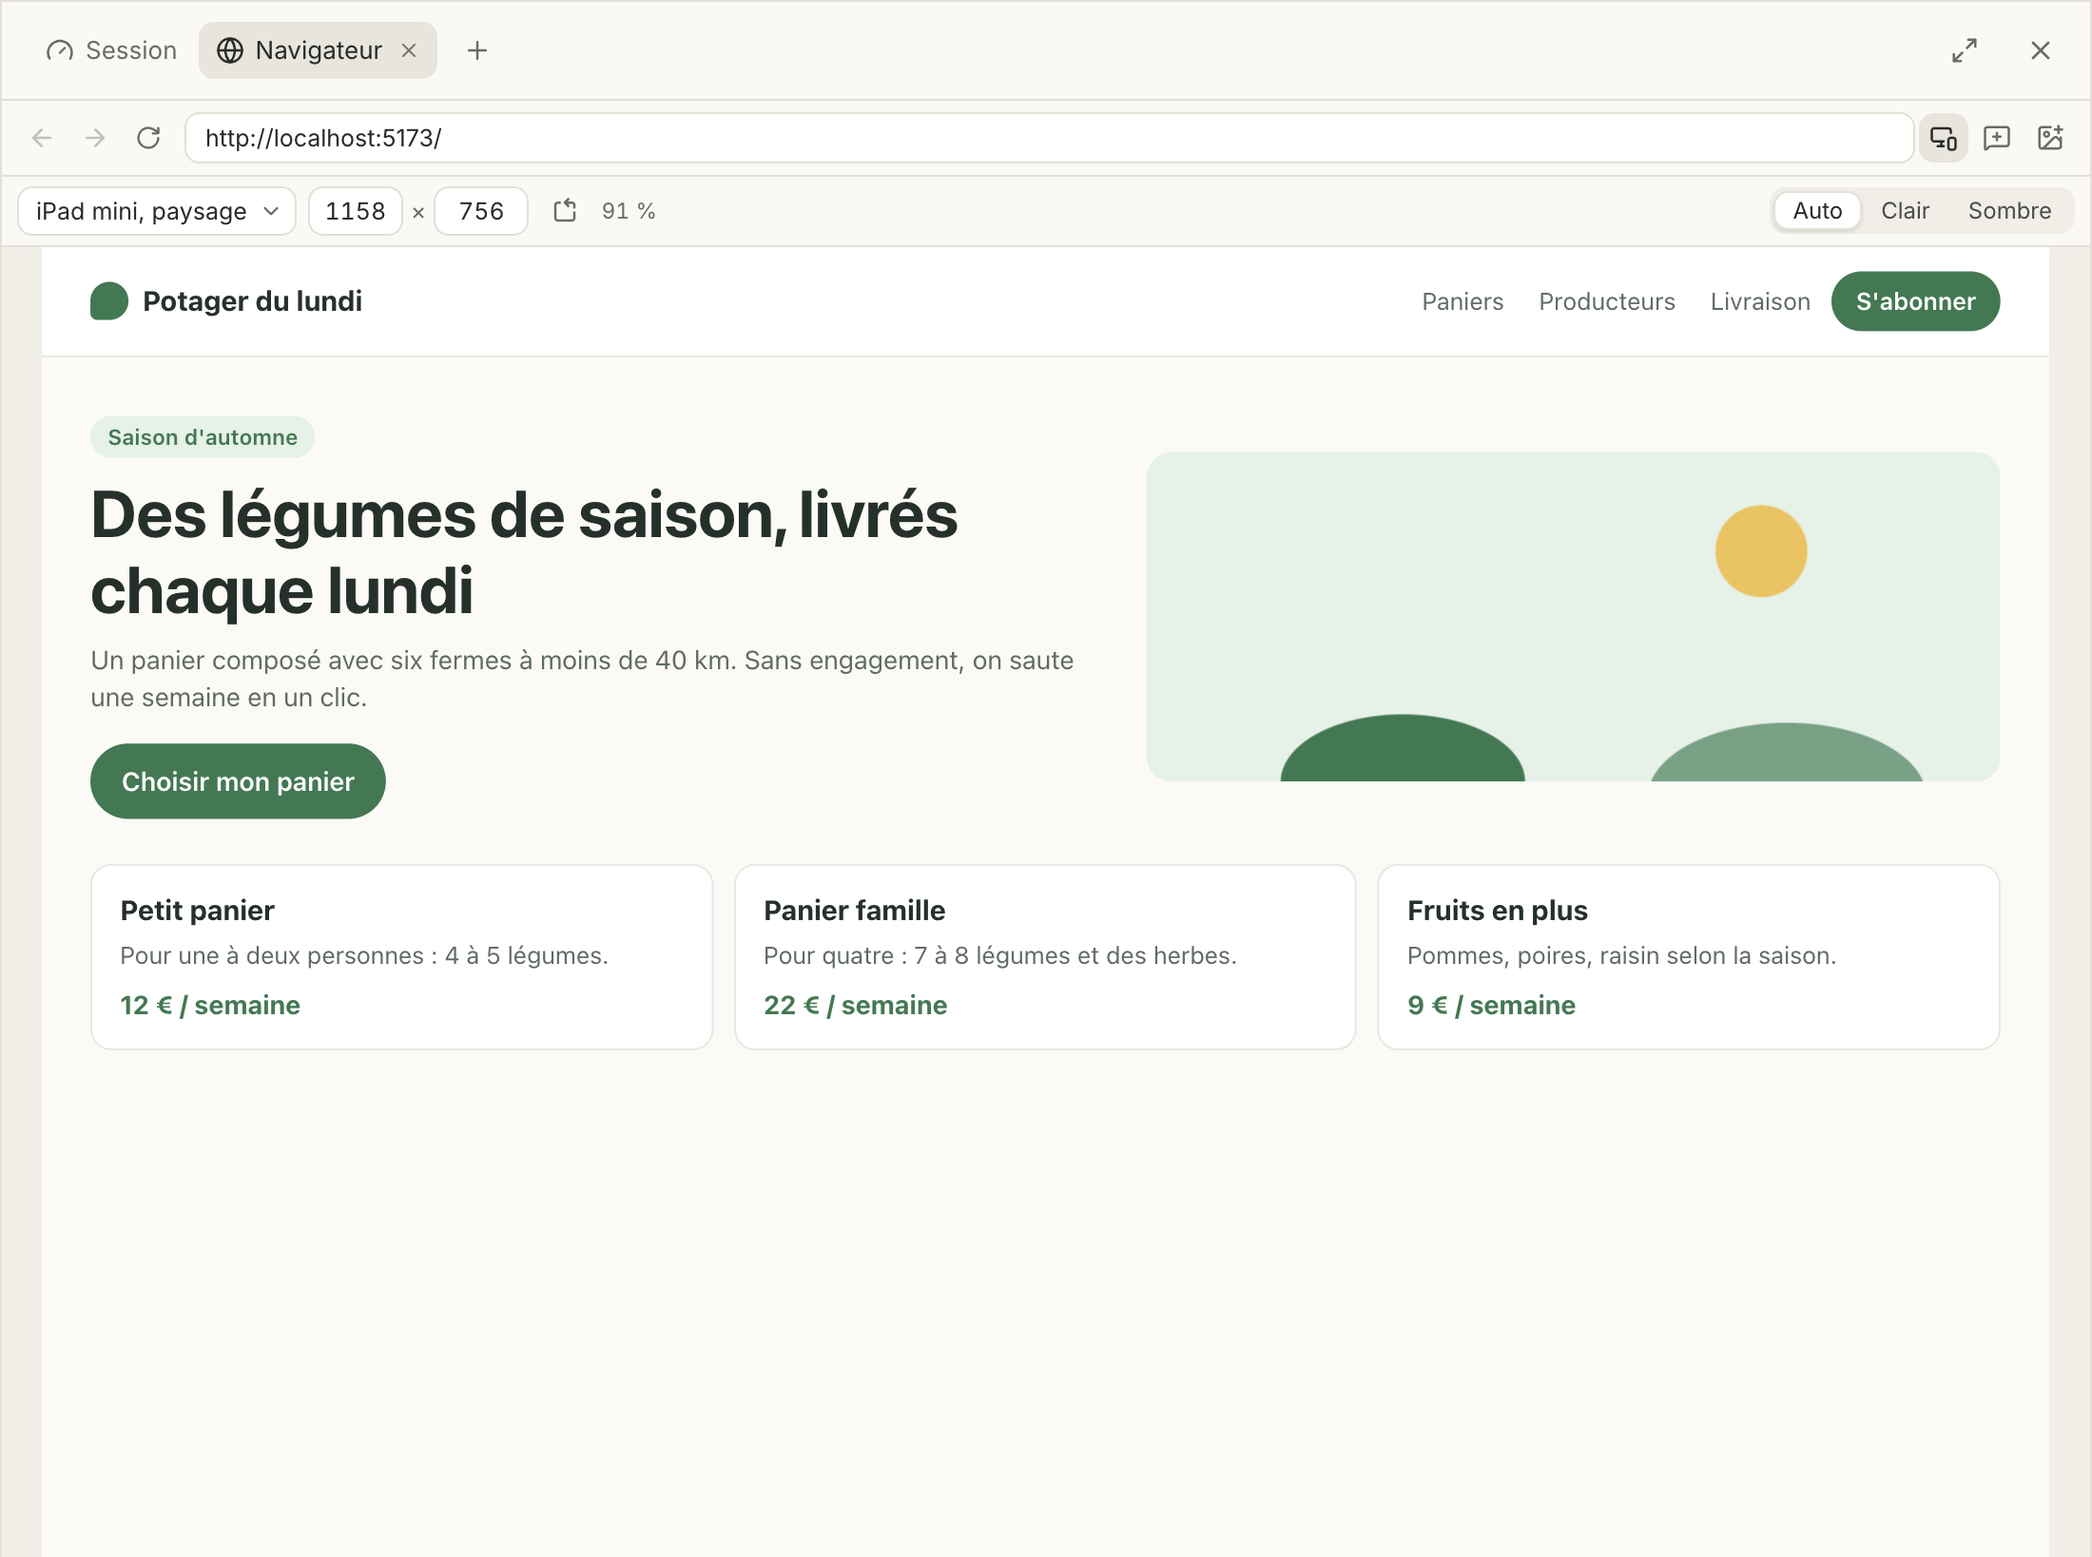
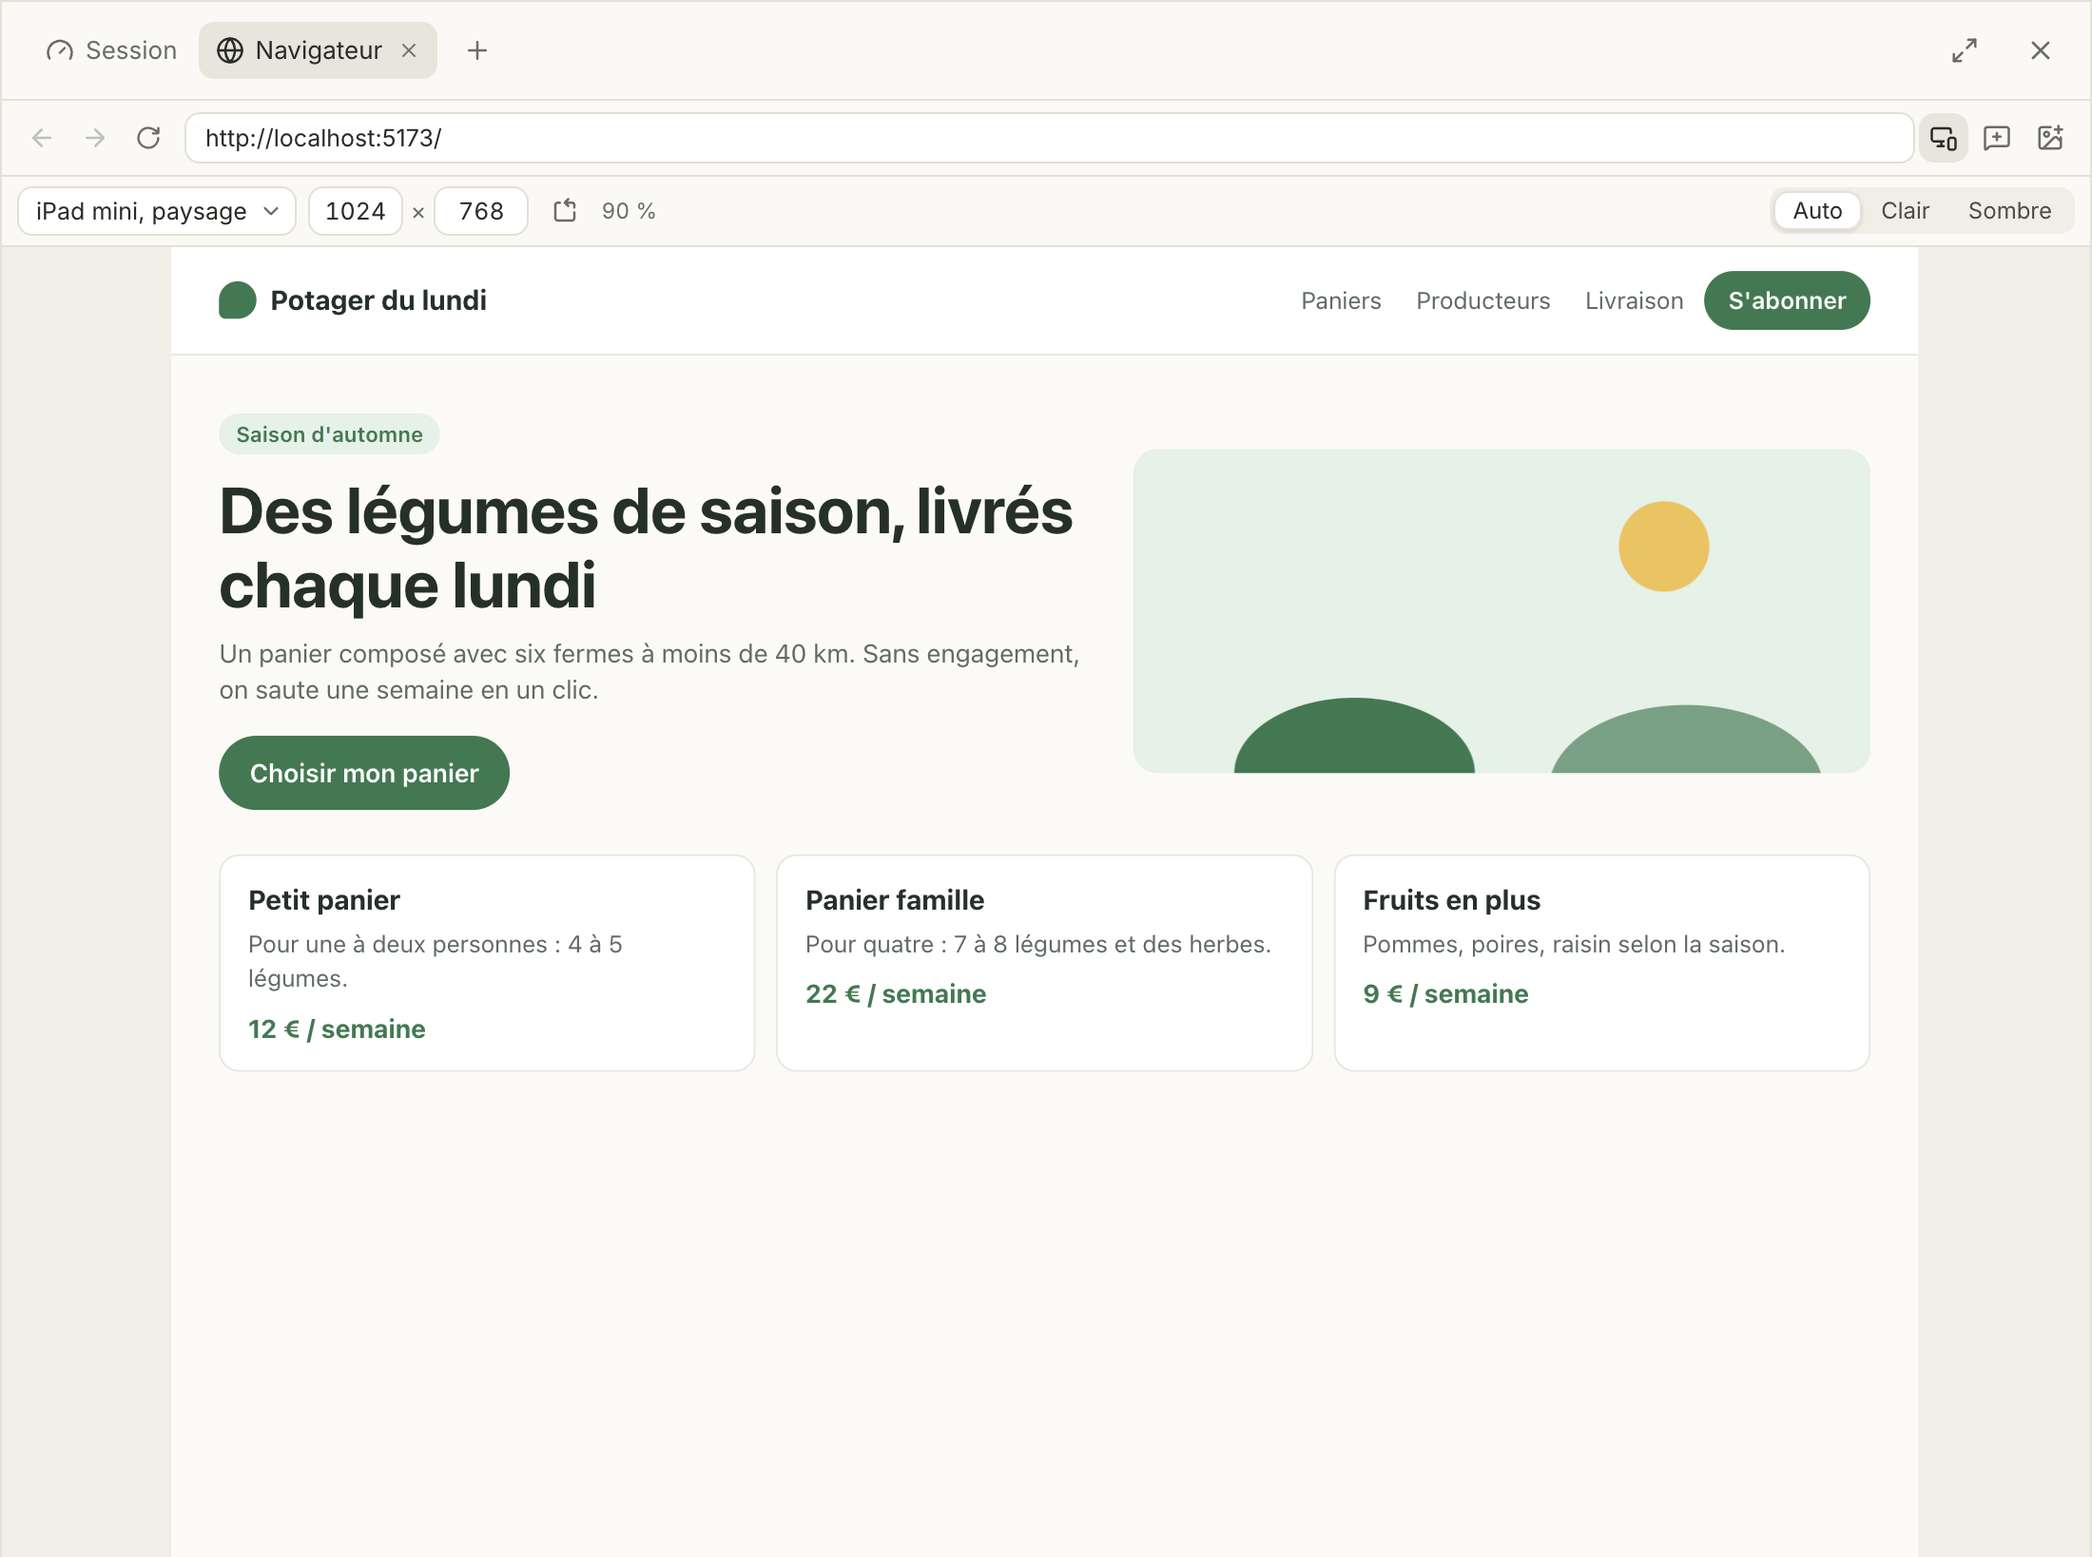
docs: feature 295, device sizes from the same-named Chrome DevTools entry
One source for every device: iPad mini 768x1024 (iPad Mini entry), iPad Pro
kept on the only iPad Pro entry (iPad Pro 13, 1032x1376), Desktop stays
conventional. Maintenance rule, ADR-0078 and mockup captures updated.

diff --git a/docs/maquettes/295-navigateur-responsive.html b/docs/maquettes/295-navigateur-responsive.html
@@ -746,15 +746,15 @@
         `<svg width="${s}" height="${s}" viewBox="0 0 24 24" fill="none" stroke="currentColor" stroke-width="2" stroke-linecap="round" stroke-linejoin="round" aria-hidden="true">${P[n]}</svg>`
 
       /*
-       * Liste arbitrée par Jérôme le 2026-11-28 (fiche 295, tableau des sources) : noms
-       * d'appareils, taille toujours à côté ; « Portable » et « Bureau » traduits.
+       * Liste arbitrée par Jérôme le 2026-11-28 : noms d'appareils, taille de l'entrée de même nom
+       * de la liste d'appareils de Chrome DevTools (fiche 295) ; « Portable » et « Bureau » traduits.
        */
       const DEVICES = [
         ['iPhone SE', 375, 667],
         ['iPhone 14', 390, 844],
         ['iPhone 14 Pro Max', 430, 932],
         ['Pixel 7', 412, 915],
-        ['iPad mini', 756, 1158],
+        ['iPad mini', 768, 1024],
         ['iPad Pro', 1032, 1376],
         ['Portable', 1280, 800],
         ['Bureau', 1920, 1080]
@@ -1019,13 +1019,13 @@
         P_(
           'p11',
           '11 — Panneau agrandi',
-          'Panneau agrandi (⤢), 1 100 px : même barre, plus de place. « iPad mini, paysage » (1158 × 756) est presque à sa taille ; à 100 %, l’échelle disparaît.',
+          'Panneau agrandi (⤢), 1 100 px : même barre, plus de place. « iPad mini, paysage » (1024 × 768) est presque à sa taille ; à 100 %, l’échelle disparaît.',
           V('', {
             w: 1100,
             bar: true,
             label: 'iPad mini, paysage',
-            size: [1158, 756],
-            fields: { w: 1158, h: 756 },
+            size: [1024, 768],
+            fields: { w: 1024, h: 768 },
             pageAuto: true
           })
         )

diff --git a/docs/features/295-navigateur-reglage-responsive.md b/docs/features/295-navigateur-reglage-responsive.md
@@ -92,7 +92,7 @@ Les numéros renvoient aux planches de la maquette.
 | 8 | Thème forcé | « Sombre » choisi : `prefers-color-scheme: dark` pour la page. Seule une page qui suit ce réglage change (dit dans l'infobulle du choix) ; l'interface de Bobine ne change pas. |
 | 9 | Panneau étroit (≤ 420 px de barre) | Le thème passe en un bouton à icône qui ouvre un petit menu ; le nom de l'appareil se réduit à une icône avec chevron ; l'échelle passe dans l'infobulle des champs. À 280 px (minimum du panneau), tout tient sur une ligne, sans texte tronqué. |
 | 10 | L'agent redimensionne pendant un réglage | Voir « Qui a la main ». La barre montre l'essai de l'agent en lecture seule (menu « Essai de l'agent » grisé, champs grisés à ses valeurs) et une ligne « L'agent essaie … · Reprendre la main » ; la puce existante reste dans l'adresse. |
-| 11 | Panneau agrandi (⤢) | Même barre, plus de place : la page réduite reprend jusqu'à 100 % (l'échelle disparaît quand elle vaut 100 %). Ex. iPad mini, paysage, 1158 × 756 à 91 %. |
+| 11 | Panneau agrandi (⤢) | Même barre, plus de place : la page réduite reprend jusqu'à 100 % (l'échelle disparaît quand elle vaut 100 %). Ex. iPad mini, paysage, 1024 × 768. |
 | — | Plusieurs onglets du navigateur | Le réglage vaut pour **tous les onglets de la conversation**, y compris ceux ouverts ensuite (lien « nouvel onglet », `browser_tabs new`). Une seule barre, sous le bandeau d'onglets. |
 | — | Retour à « Adaptatif » | Choisir Adaptatif dans le menu, ou **refermer la barre** : la page reprend la largeur du panneau et le thème Auto. Rouvrir la barre rend le dernier réglage de la conversation. |
 
@@ -168,23 +168,23 @@ redémarrage (état caché qui survit, ce que la fiche 129 a déjà retiré pour
 Choix de Jérôme, contre la recommandation de libellés génériques : la liste de sa capture, avec la
 taille toujours affichée à côté du nom.
 
-**Règle des valeurs.** Largeur × hauteur en **pixels CSS**, orientation portrait, du **modèle le
-plus récent qui porte ce nom**. Source première : la liste d'appareils des outils de développement
-de Chrome (`front_end/models/emulation/EmulatedDevices.ts`, dépôt ChromeDevTools/devtools-frontend,
-branche `main`, lue le 2026-11-28), qui publie directement des tailles CSS. Quand elle est en
-retard sur le modèle vendu, la fiche technique du fabricant, divisée par le facteur d'échelle de
-l'appareil, et l'écart est dit.
+**Règle des valeurs (une seule source).** Chaque entrée reprend la taille, en **pixels CSS**, de
+**l'entrée de même nom** de la liste d'appareils des outils de développement de Chrome
+(`front_end/models/emulation/EmulatedDevices.ts`, dépôt ChromeDevTools/devtools-frontend, branche
+`main`, lue le 2026-11-28). C'est la liste que les développeurs connaissent et contre laquelle ils
+compareront. **Ces tailles sont celles de la liste de Chrome, pas celles du dernier modèle vendu
+sous ce nom** (ex. l'entrée « iPad Mini » est la taille des iPad mini de 2019 et avant).
 
-| Libellé (fr / en) | CSS (l × h) | `mobile` (tactile, `meta viewport`) | Densité (pour information, non appliquée) | Source et date |
+| Libellé (fr / en) | CSS (l × h) | `mobile` (tactile, `meta viewport`) | Densité (pour information, non appliquée) | Entrée DevTools exacte |
 |---|---|---|---|---|
-| iPhone SE | 375 × 667 | oui | 2 | DevTools « iPhone SE » (2026-11-28) ; iPhone SE 3e gén. (2022), dernier modèle de ce nom |
-| iPhone 14 | 390 × 844 | oui | 3 | DevTools « iPhone 14 » (2026-11-28) |
-| iPhone 14 Pro Max | 430 × 932 | oui | 3 | DevTools « iPhone 14 Pro Max » (2026-11-28) |
-| Pixel 7 | 412 × 915 | oui | 2,625 | DevTools « Pixel 7 » (2026-11-28) |
-| iPad mini | **756 × 1158** | oui | 2 | **Sources divergentes, tranché** : DevTools « iPad Mini » donne 768 × 1024, la taille des iPad mini 5e génération et antérieurs (2019 et avant). Apple, `apple.com/ipad-mini/specs/` (lu le 2026-11-28) : iPad mini (A20 Pro), 2316 × 1512 px à 326 ppi, soit 1158 × 756 à l'échelle 2 des iPad. On retient le modèle vendu. **Taille dérivée** : Apple ne publie pas la fenêtre CSS. À confirmer au lot 0 si une source publiée la donne. Sinon, la valeur reste dérivée et la fiche le dit. |
-| iPad Pro | 1032 × 1376 | oui | 2 | DevTools « iPad Pro 13 » (2026-11-28) : iPad Pro 13″ (2024 et après). L'iPad Pro 12,9″ (2018-2022), 1024 × 1366, n'est pas repris. |
-| Portable / Laptop | 1280 × 800 | non | 1 | DevTools « Laptop with MDPI screen » (2026-11-28) |
-| Bureau / Desktop | 1920 × 1080 | non | 1 | Pas d'entrée dans DevTools ; valeur conventionnelle (Full HD). Aucune statistique d'usage n'est citée. |
+| iPhone SE | 375 × 667 | oui | 2 | `iPhone SE` |
+| iPhone 14 | 390 × 844 | oui | 3 | `iPhone 14` |
+| iPhone 14 Pro Max | 430 × 932 | oui | 3 | `iPhone 14 Pro Max` |
+| Pixel 7 | 412 × 915 | oui | 2,625 | `Pixel 7` |
+| iPad mini | 768 × 1024 | oui | 2 | `iPad Mini` |
+| iPad Pro | 1032 × 1376 | oui | 2 | `iPad Pro 13` : la liste n'a **aucune** entrée nommée exactement « iPad Pro » (vérifié le 2026-11-28). C'est la seule entrée iPad Pro, donc la plus proche du nom. |
+| Portable / Laptop | 1280 × 800 | non | 1 | `Laptop with MDPI screen` (donnée en 800 × 1280, sens portrait de la liste ; un portable s'affiche en paysage). Aucune entrée nommée « Laptop » seule. |
+| Bureau / Desktop | 1920 × 1080 | non | 1 | Aucune entrée : valeur **conventionnelle** (Full HD). L'entrée la plus proche, `Laptop with HiDPI screen` (1440 × 900), est un portable : la prendre ferait de « Bureau » un second portable. |
 
 Plus « Adaptatif » (en tête) et « Taille libre » (sous la liste, seulement quand une taille libre
 est en vigueur). Le préréglage `tablet` de l'agent (768 × 1024) reste celui de l'agent : il n'est
@@ -197,14 +197,14 @@ libre » / « Custom size » sont des clés i18n.
 **Règle d'entretien** (risque accepté par Jérôme : liste à tenir à jour, promesse d'un appareil
 que Bobine n'émule pas vraiment) :
 
+- **on suit l'entrée de même nom de la liste d'appareils de Chrome DevTools, relue à chaque
+  version majeure** de Bobine ;
 - la liste est une **donnée**, dans `src/shared/browser-devices.ts` : identifiant, nom, largeur,
-  hauteur, `mobile`, et un champ `source` (où, et quand la valeur a été lue). Aucun code ne dépend d'un appareil
-  particulier ;
+  hauteur, `mobile`, et le nom exact de l'entrée DevTools suivie (`devtools`, absent pour
+  « Bureau », marqué conventionnel). Aucun code ne dépend d'un appareil particulier ;
 - elle reste **courte** (huit entrées au plus) ;
-- elle est **revue à chaque version majeure** de Bobine : un modèle remplacé change de nom ou de
-  taille, avec sa nouvelle source ;
-- **aucun appareil n'est ajouté sans sa source** (publiée, datée). Un essai unitaire vérifie que
-  chaque entrée porte une source et des bornes valides (200 à 4 000 px) ;
+- **aucun appareil n'est ajouté sans son entrée DevTools**. Un essai unitaire vérifie que chaque
+  entrée nomme son entrée (sauf « Bureau ») et reste dans les bornes (200 à 4 000 px) ;
 - la ligne de bas de menu dit toujours la limite.
 
 **Noms de produits de tiers.** Ils servent seulement à désigner un appareil : pas de logo, pas
@@ -286,7 +286,7 @@ Mac. » Rien sur Safari, iOS ou Android.
       `'ontouchstart' in window` ; agent factice seulement ; **clair et sombre, français et
       anglais** (`--lang en`), captures regardées.
 - [ ] Textes : aucun en dur, clés fr / en ci-dessous, glossaire respecté ; noms d'appareils identiques dans les deux langues.
-- [ ] `browser-devices.test.ts` : chaque appareil a un champ `source` non vide et daté, et des tailles dans les bornes.
+- [ ] `browser-devices.test.ts` : chaque appareil nomme son entrée DevTools (sauf « Bureau », conventionnel) et reste dans les bornes.
 - [ ] ADR-0078 accepté, statut de l'ADR-0026 mis à jour ; `docs/architecture.md` (ligne du navigateur), `CHANGELOG.md` et
       `CHANGELOG.en.md` à jour.
 
@@ -351,7 +351,7 @@ Maquette et quatre réponses arbitrées le 2026-11-28 ; rien n'est codé avant l
 
 | Lot | Contenu | Fichiers | Taille |
 |---|---|---|---|
-| 0 | Sonde (Electron du dépôt, page locale) : `pointer` / `hover` sous `setTouchEmulationEnabled`, changement de réglage pendant un `browser_resize`, Annoter sur page réduite ; taille CSS de l'iPad mini à confirmer si une source publiée la donne. ADR-0078 accepté (statut de l'ADR-0026 mis à jour). | script jetable, `docs/adr/` | ½ jour |
+| 0 | Sonde (Electron du dépôt, page locale) : `pointer` / `hover` sous `setTouchEmulationEnabled`, changement de réglage pendant un `browser_resize`, Annoter sur page réduite ; liste relue contre DevTools. ADR-0078 accepté (statut de l'ADR-0026 mis à jour). | script jetable, `docs/adr/` | ½ jour |
 | 1 | Moteur : liste et bornes partagées ; deux couches par onglet, couche en vigueur (pure) ; `endAgentTurn` qui rend le réglage ; nouveaux onglets ; `BrowserState` (`device`, `colorScheme`, `agent`) ; canal `browser:setDevice` (analyse, garde lecture seule, préload) ; phrase du résultat de `browser_resize` | `shared/browser.ts`, `shared/browser-devices.ts` (nouveau : la liste et ses sources), `shared/browser-ipc.ts`, `main/browser/page-view.ts`, `browser-manager.ts`, `browser-controller.ts`, `browser-setup.ts`, `browser-ipc.ts`, `browser-tools.ts`, `cdp-tab.ts` (rien, sauf si la sonde l'exige), `read-only-guard.ts`, `preload/api.ts` + essais | ≈ 350 lignes + 300 d'essais |
 | 2 | Interface : bouton, `DeviceBar.tsx` (nouveau ; `BrowserTab.tsx` est à 520 lignes, plafond 800), menu, champs, thème, repli étroit (requêtes de conteneur), ligne de l'agent, puce « · sombre » ; clés fr / en ; styles | `components/panel/DeviceBar.tsx`, `BrowserTab.tsx`, `styles.css`, `locales/fr.json`, `en.json` + essais | ≈ 300 lignes + 150 d'essais |
 | 3 | e2e : page locale de mesure, suite `browser-device` (ou extension de `browser-view`), scénario factice existant `navigateur-mobile` réutilisé, clair / sombre, fr / en ; captures regardées. Docs : architecture, CHANGELOG fr / en, `docs/mock-agent.md` si scénario | `e2e/suites/…`, `docs/` | ≈ 250 lignes |
@@ -388,3 +388,8 @@ Maquette et quatre réponses arbitrées le 2026-11-28 ; rien n'est codé avant l
   forme, sans les variantes écartées ; liste par noms d'appareils, avec sources et règle
   d'entretien ; « Taille libre » dès qu'un champ change (planche 6c) ; ADR-0078 proposé ; captures
   « avant » en sombre ajoutées. Rien de codé.
+- 2026-11-28 : relecture du tech lead : une seule source, l'entrée de même nom de la liste de
+  Chrome DevTools. iPad mini passe à 768 × 1024 (entrée `iPad Mini`) au lieu de la valeur dérivée
+  de la fiche Apple. Pour iPad Pro, la liste n'a pas d'entrée « iPad Pro » : on garde `iPad Pro 13`
+  (1032 × 1376), la seule entrée de ce nom. Bureau reste conventionnel. Captures du menu et du
+  panneau agrandi refaites.

diff --git a/docs/adr/0078-taille-d-ecran-reglee-par-l-utilisateur.md b/docs/adr/0078-taille-d-ecran-reglee-par-l-utilisateur.md
@@ -42,8 +42,10 @@ Ce qui a changé depuis :
    recommandation de libellés génériques. **Limite assumée et dite** : seule la taille de l'écran
    en pixels CSS est imitée, avec le mode mobile de Chromium et le tactile ; ni la densité de
    pixels, ni l'identité du navigateur, ni Safari. La taille figure toujours à côté du nom, et une
-   ligne en bas du menu le dit. La liste est une donnée courte (`shared/browser-devices.ts`), où
-   chaque entrée cite sa source. Elle est revue à chaque version majeure.
+   ligne en bas du menu le dit. La liste est une donnée courte (`shared/browser-devices.ts`).
+   Chaque entrée reprend la taille de l'entrée de même nom de la liste d'appareils de Chrome
+   DevTools, et non celle du dernier modèle vendu sous ce nom. La liste est relue à chaque version
+   majeure.
 5. Seul le main parle à la page ; un seul canal IPC (`browser:setDevice`) qui revérifie tout ;
    aucun pouvoir nouveau au renderer ; les autorisations du navigateur (fiches 072, 249, 269) ne
    changent pas.
